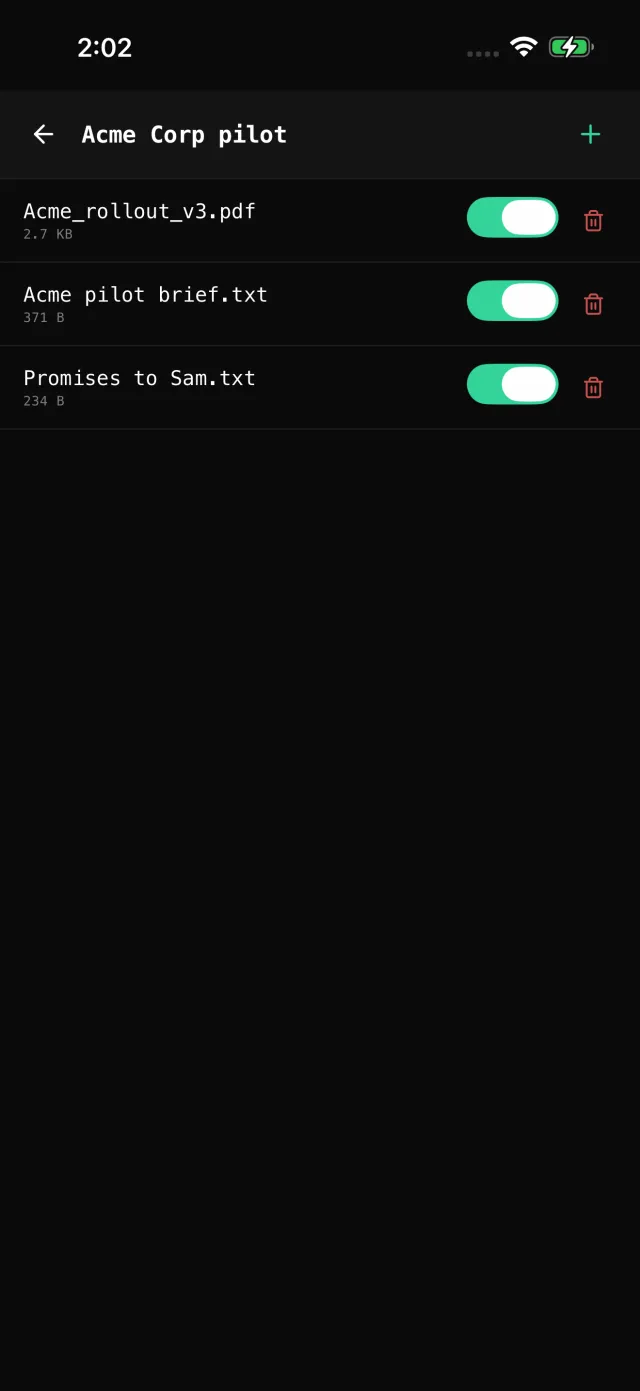
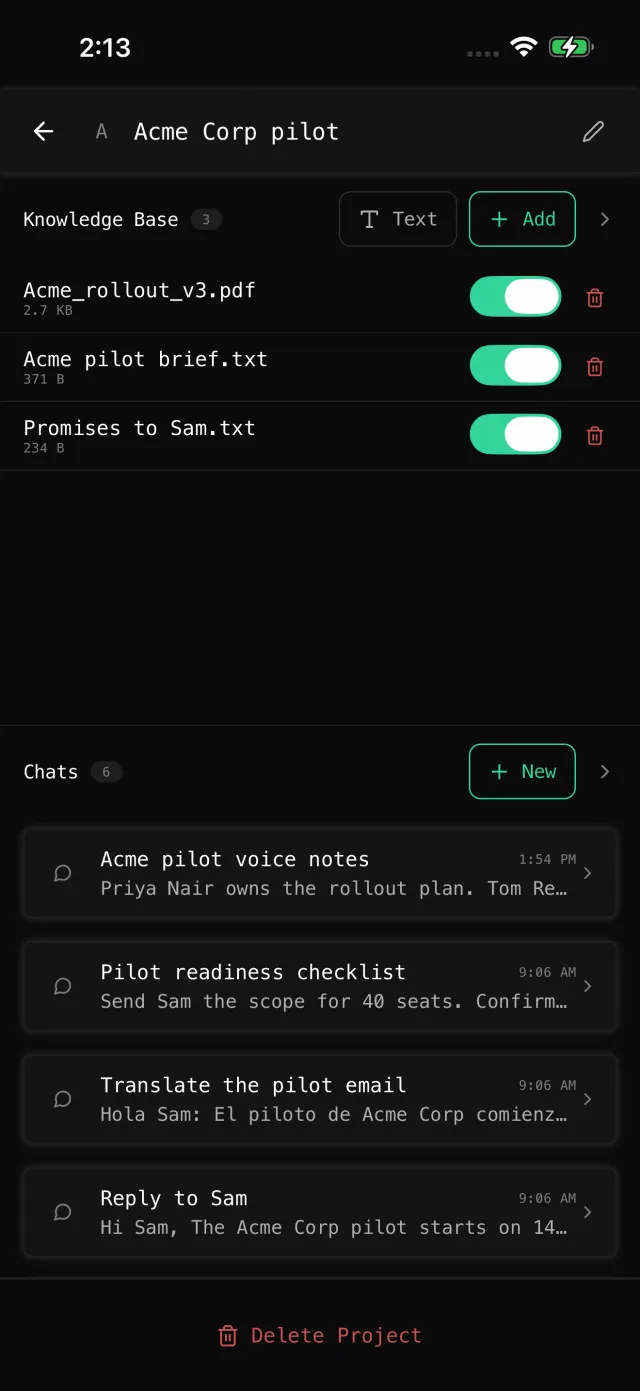
Start the phone Chat feature at the typed question; full Acme project overview
Chat now opens on the composer with the request typed, then the drafted reply.
Projects opens on the full Acme Corp pilot overview with its documents and chats,
now that the dark theme's chat titles are readable.

diff --git a/preview-ui/pages/mobile.jsx b/preview-ui/pages/mobile.jsx
@@ -35,8 +35,8 @@ const SCENES = {
 // Real screens where the app has them, only in their own theme; a composed scene stands in for the other theme.
 // Every REAL entry below has both themes except `larger`, so only `larger` (dark) falls back to SCENES.
 const REAL = {
-  chat: { light: [["chat-ios-1-light", "A reply to Sam Okafor at Acme Corp, drafted on the phone by a local model.", 3800]], dark: [["chat-ios-1-dark", "A reply to Sam Okafor at Acme Corp, drafted on the phone by a local model.", 3800]] },
-  projects: { light: [["project-ios-1-light", "The Acme Corp pilot project on iPhone: the rollout PDF, the pilot brief and the promises to Sam.", 3000], ["project-ios-3-light", "The rollout PDF read on the phone, text and all.", 3000], ["project-ios-2-light", "What you promised Sam, answered from the Acme project documents.", 3000]], dark: [["project-ios-1-dark", "The Acme Corp pilot project on iPhone: the rollout PDF, the pilot brief and the promises to Sam.", 3000], ["project-ios-3-dark", "The rollout PDF read on the phone, text and all.", 3000], ["project-ios-2-dark", "What you promised Sam, answered from the Acme project documents.", 3000]] },
+  chat: { light: [["chat-start-ios-light", "Ask in the Acme Corp pilot project: draft a reply to Sam about the pilot date.", 3000], ["chat-ios-1-light", "A reply to Sam Okafor at Acme Corp, drafted on the phone by a local model.", 3000]], dark: [["chat-start-ios-dark", "Ask in the Acme Corp pilot project: draft a reply to Sam about the pilot date.", 3000], ["chat-ios-1-dark", "A reply to Sam Okafor at Acme Corp, drafted on the phone by a local model.", 3000]] },
+  projects: { light: [["project-ios-1-light", "The Acme Corp pilot project on iPhone: the rollout PDF, the brief, the promises to Sam and its chats.", 3000], ["project-ios-3-light", "The rollout PDF read on the phone, text and all.", 3000], ["project-ios-2-light", "What you promised Sam, answered from the Acme project documents.", 3000]], dark: [["project-ios-1-dark", "The Acme Corp pilot project on iPhone: the rollout PDF, the brief, the promises to Sam and its chats.", 3000], ["project-ios-3-dark", "The rollout PDF read on the phone, text and all.", 3000], ["project-ios-2-dark", "What you promised Sam, answered from the Acme project documents.", 3000]] },
   images: { light: [['imagegen-ios-1-light', 'Off Grid AI on iPhone: "A lighthouse at dusk, film photo" turned into an enhanced prompt and a finished image.', 4600]], dark: [['imagegen-ios-1-dark', 'Off Grid AI on iPhone: "A lighthouse at dusk, film photo" turned into an enhanced prompt and a finished image.', 4600]] },
   voicemode: { light: [['voice-ios-2-light', 'You ask by voice and the replies come back as voice notes, each with a transcript.', 3000], ['voice-pick-ios-light', 'Pick the voice that answers: Heart, River, Sarah and more, all on the phone.', 3000], ['voice-ios-1-light', 'A spoken brief on the Acme pilot, with its transcript.', 3000]], dark: [['voice-ios-2-dark', 'You ask by voice and the replies come back as voice notes, each with a transcript.', 3000], ['voice-pick-ios-dark', 'Pick the voice that answers: Heart, River, Sarah and more, all on the phone.', 3000], ['voice-ios-1-dark', 'A spoken brief on the Acme pilot, with its transcript.', 3000]] },
   vision: { light: [['vision-ios-2-light', 'Off Grid AI on iPhone: a photo of a receipt, answered with the total.', 4200]], dark: [['vision-ios-2-dark', 'Off Grid AI on iPhone: a photo of a receipt, answered with the total.', 4200]] },

diff --git a/preview-ui/page.jsx b/preview-ui/page.jsx
@@ -117,7 +117,7 @@ function MobileMenu() {
 }
 
 // Real app screens, captured from the seeded desktop build in both themes.
-export const SHOT_V = '20261008i';
+export const SHOT_V = '20261008j';
 // A screenshot inside its device frame: the MacBook for desktop captures, the iPhone for phone captures.
 export function Device({ name, theme, alt, full = false }) {
   const mobile = name.startsWith('mobile/'); const n = name.replace(/^mobile\//, '');
